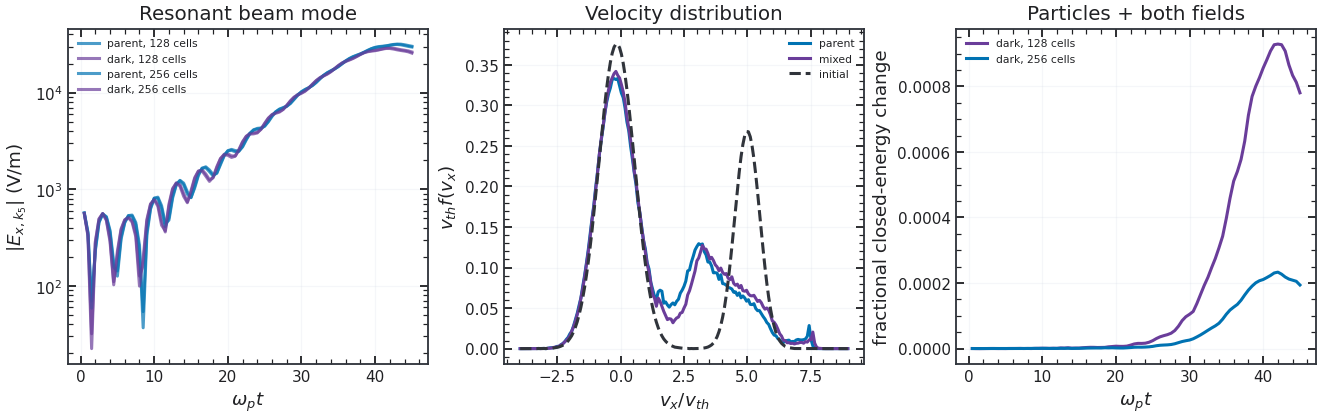
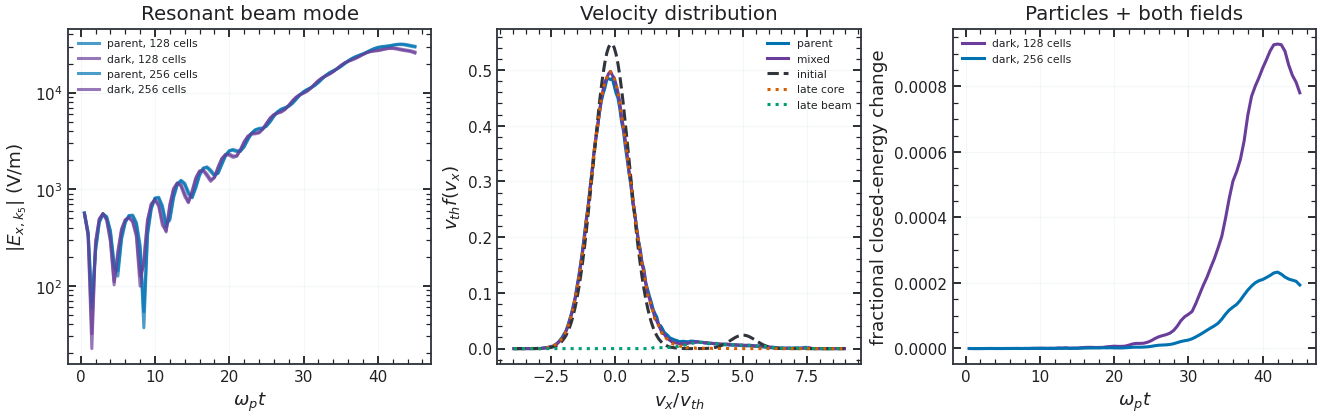
Regenerate physically weighted bump evidence

diff --git a/docs/kinetic.md b/docs/kinetic.md
@@ -53,7 +53,7 @@ Late coherent phases and vortex shapes change with grid refinement. A warmer, se
 
 ## Bump on tail with a finite dark field
 
-The parent's [bump-on-tail example](https://github.com/uwplasma/JAX-in-Cell/blob/83d327118163833f93e2588edcb5029241f6ba2a/examples/2_intermediate/bump_on_tail.py) supplies the kinetic setup. We use two electron Maxwellians with a 3% beam at $5v_{th}$, beam width $0.7v_{th}$ and a compensating bulk drift $u_b=-0.03u_t/0.97$; a fixed background neutralizes their charge. The drift adjustment makes the **physical mean current zero**, and it distinguishes this loading from the parent's original example. The seeded $k_5$ displacement is $0.002/k_5$. In both solvers the positions, velocities, weights and ordinary initial field are identical. The same physical $\omega_p$, $v_{th}$, box and mode are held fixed across grid refinement.
+The parent's [bump-on-tail example](https://github.com/uwplasma/JAX-in-Cell/blob/83d327118163833f93e2588edcb5029241f6ba2a/examples/2_intermediate/bump_on_tail.py) supplies the kinetic setup. We use two electron Maxwellians with a 3% beam at $5v_{th}$, beam width $0.7v_{th}$ and a compensating bulk drift $u_b=-0.03u_t/0.97$; a fixed background neutralizes their charge. The drift adjustment makes the **physical mean current zero**, and it distinguishes this loading from the parent's original example. The seeded $k_5$ displacement is $0.002/k_5$. In both solvers the positions, velocities, weights and ordinary initial field are identical. The same physical $\omega_p$, $v_{th}$, box and mode are held fixed across grid refinement. Although one-third of numerical markers represent the beam, their physical number weights integrate to 0.03 of the distribution. The plotted histogram divides weighted bin counts by total represented number and bin width; its saved arrays separate core and beam and report support and out-of-range number weight.
 
 For each drifting Maxwellian $j$, use $\zeta_j=(\omega-ku_j)/(kv_{th,j})$ and the parent's independent [plasma dispersion function](https://github.com/uwplasma/JAX-in-Cell/blob/83d327118163833f93e2588edcb5029241f6ba2a/jaxincell/theory.py):
 
